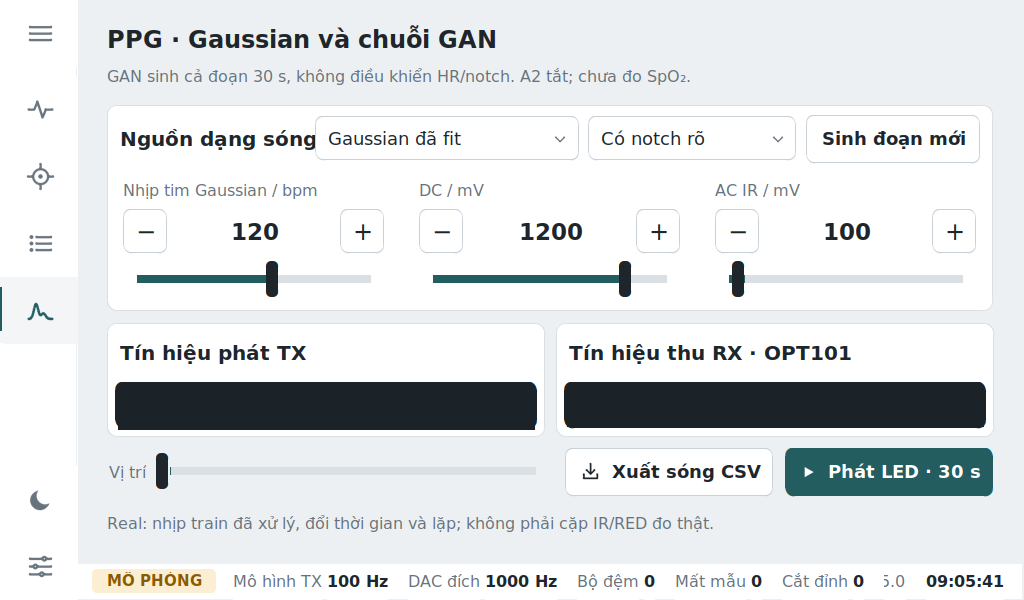
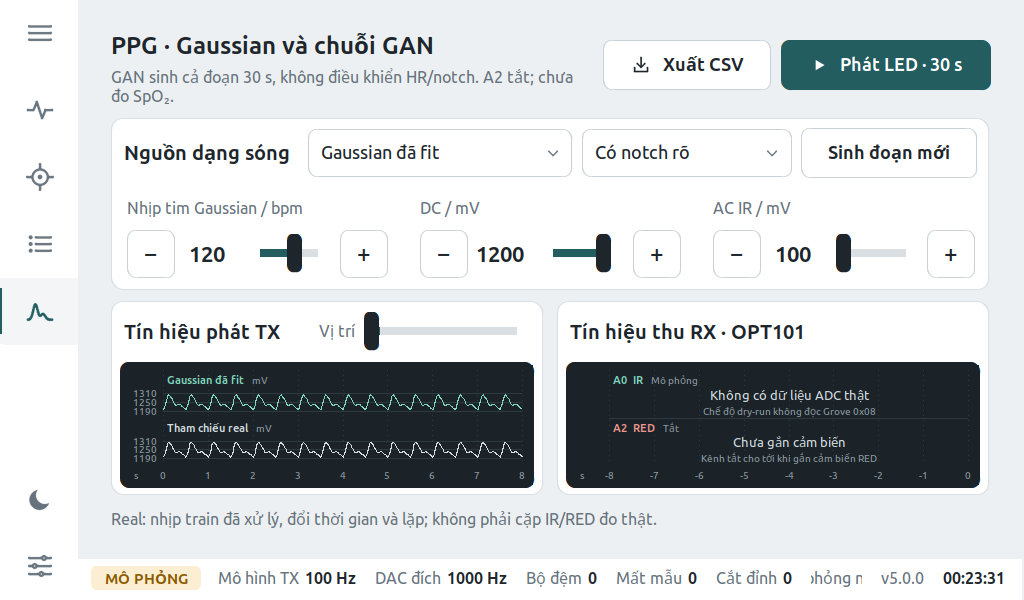
fix: Neural page fits the 1024x600 panel with taller TX/RX plots
On a desktop-scaled window shrunk to 1024x600 the TX/RX plot cards collapsed
to ~45 px. On the Pi panel profile (compact, 0.75 scaling) the page sat in a
scroll host and fit, but with TX lanes of 98 px each and RX 196 px.

- Play/Export move to the page header and the seek slider into the TX card
  header (as on the other pages); the bottom bar is gone.
- Sliders use an inline TouchSlider row (- value slider +).
- Generated and reference TX lanes share one LaneView and time axis; during
  playback the reference lane follows the clip time.
- Every page now uses one non-scrolling host, so the plots stretch.

Pi profile emulated on the laptop: TX and RX plots 313 px, page fits without
scrolling. Desktop window at 1024x600: 120 px. New test emulates the panel and
failed on the old layout. pytest 821 passed, 10 skipped; neural and PhysioMix
UI smoke tests PASS (DRY RUN). Not run on the Pi display itself.

diff --git a/ui/frames/neural_frame.py b/ui/frames/neural_frame.py
@@ -21,14 +21,14 @@ from ui import theme as T
 from ui.rx_monitor import RXPanel
 from ui.select_button import SelectButton
 from ui.touch_slider import TouchSlider
-from ui.trace_view import TraceView
+from ui.trace_view import Lane, LaneView
 
 COPY = {
     'vi': dict(title='PPG · Gaussian và chuỗi GAN', generate='Sinh đoạn mới',
                hr='Nhịp tim Gaussian / bpm', dc='DC / mV', ac='AC IR / mV',
                fitted='Gaussian đã fit', lsm='LSM-GAN · thăm dò',
                with_notch='Có notch rõ', no_notch='Không có notch rõ',
-               play='Phát LED · 30 s', source='Nguồn dạng sóng', seek='Vị trí', stop='Dừng đầu ra', export='Xuất sóng CSV',
+               play='Phát LED · 30 s', source='Nguồn dạng sóng', seek='Vị trí', stop='Dừng đầu ra', export='Xuất CSV',
                real='Tham chiếu real', tx='Tín hiệu phát TX', rx='Tín hiệu thu RX · OPT101',
                info='GAN sinh cả đoạn 30 s, không điều khiển HR/notch. A2 tắt; chưa đo SpO₂.',
                ready='Chưa phát · chọn nguồn, kéo slider rồi nhấn Phát LED.',
@@ -49,7 +49,7 @@ COPY = {
                hr='Gaussian heart rate / bpm', dc='DC / mV', ac='IR AC / mV',
                fitted='Fitted Gaussian', lsm='LSM-GAN · exploratory',
                with_notch='Visible notch', no_notch='No visible notch',
-               play='Play LED · 30 s', source='Waveform source', seek='Position', stop='Stop output', export='Export waveform CSV',
+               play='Play LED · 30 s', source='Waveform source', seek='Position', stop='Stop output', export='Export CSV',
                real='Real reference', tx='TX output signal', rx='RX received signal · OPT101',
                info='GAN generates a whole 30 s strip; no HR/notch control. A2 off; no measured SpO₂.',
                ready='Idle · choose source, adjust sliders, then press Play LED.',
@@ -87,7 +87,7 @@ class NeuralFrame(ctk.CTkFrame):
         u = T.ui
         self.grid_columnconfigure(0, weight=1)
         self.grid_rowconfigure(3, weight=1)
-        self.title_label, self.info, _actions = K.page_header(self)
+        self.title_label, self.info, actions = K.page_header(self)
 
         source, self.source_title, tools = K.section(self, span=3)
         source.grid(row=1, column=0, sticky='ew', pady=(0, u(8)))
@@ -104,7 +104,7 @@ class NeuralFrame(ctk.CTkFrame):
             label=T.label(source,'',u(12),text_color=T.MUTED,anchor='w')
             label.grid(row=1,column=col,sticky='ew',padx=u(12))
             self.control_labels[key]=label
-            control=TouchSlider(source,lo,hi,step,value=value,
+            control=TouchSlider(source,lo,hi,step,value=value,inline=True,
                                 command=lambda _value,k=key:self.adjust(k))
             control.grid(row=2,column=col,sticky='ew',padx=u(12),pady=(0,u(10)))
             setattr(self,key+'_slider',control)
@@ -115,34 +115,33 @@ class NeuralFrame(ctk.CTkFrame):
         plots.grid_rowconfigure(0,weight=1)
         # TX on the left (generated lane over its reference lane), RX on the
         # right: the same split as the Classic and Calibration pages.
-        tx, self.left_label, _ = K.section(plots)
+        tx, self.left_label, tx_tools = K.section(plots)
         tx.grid(row=0,column=0,sticky='nsew',padx=(0,u(4)))
-        holder=K.plot_holder(tx)
-        self.trace=TraceView(holder,height=96)
-        self.trace.pack(fill='both',expand=True,padx=u(3),pady=(u(3),0))
-        self.reference_trace=TraceView(holder,height=96)
-        self.reference_trace.pack(fill='both',expand=True,padx=u(3),pady=(0,u(3)))
-        rx, self.rx_title, _ = K.section(plots)
-        rx.grid(row=0,column=1,sticky='nsew',padx=(u(4),0))
-        self.rx_panel=RXPanel(K.plot_holder(rx),language=self.language,height=196)
-        self.rx_panel.pack(fill='both',expand=True,padx=u(3),pady=u(3))
-
-        bottom=ctk.CTkFrame(self,fg_color='transparent')
-        bottom.grid(row=4,column=0,sticky='ew',pady=(u(8),0))
-        bottom.grid_columnconfigure(1,weight=1)
-        self.seek_label=T.label(bottom,'',u(12),text_color=T.MUTED)
-        self.seek_label.grid(row=0,column=0,padx=(u(2),u(8)))
-        self.seek=ctk.CTkSlider(bottom,from_=0,to=22,height=u(28),border_width=u(11),button_length=u(2),
+        # Seek lives in the TX card header and Play/Export in the page header, as on the other pages:
+        # a separate bottom bar left the 1024x600 panel no height for the plots.
+        self.seek_label=T.label(tx_tools,'',u(12),text_color=T.MUTED)
+        self.seek_label.pack(side='left',padx=(0,u(6)))
+        self.seek=ctk.CTkSlider(tx_tools,from_=0,to=22,width=u(120),height=u(28),border_width=u(11),button_length=u(2),
                                 corner_radius=u(3),button_corner_radius=u(4),progress_color=T.ACCENT,
                                 button_color=T.INK,button_hover_color=T.ACCENT,command=lambda _:self.render())
         self.seek.set(0)
-        self.seek.grid(row=0,column=1,sticky='ew',padx=(0,u(10)))
-        self.export_btn=K.secondary_button(bottom,command=self.export,width=150,icon='save')
-        self.export_btn.grid(row=0,column=2,padx=(0,u(8)))
-        self.play_btn=K.primary_button(bottom,command=self.toggle_output,width=150)
-        self.play_btn.grid(row=0,column=3)
-        self.status=T.label(self,'',u(12),text_color=T.MUTED,anchor='w',justify='left',wraplength=u(900))
-        self.status.grid(row=5,column=0,sticky='ew',pady=(u(6),0))
+        self.seek.pack(side='left')
+        holder=K.plot_holder(tx)
+        # One view, two lanes (generated over real reference) on one time axis, like the RX panel:
+        # two separate views each needed their own axis and minimum height.
+        self.trace=LaneView(holder,height=120)
+        self.trace.pack(fill='both',expand=True,padx=u(3),pady=u(3))
+        rx, self.rx_title, _ = K.section(plots)
+        rx.grid(row=0,column=1,sticky='nsew',padx=(u(4),0))
+        self.rx_panel=RXPanel(K.plot_holder(rx),language=self.language,height=120)
+        self.rx_panel.pack(fill='both',expand=True,padx=u(3),pady=u(3))
+
+        self.export_btn=K.secondary_button(actions,command=self.export,width=120,icon='save')
+        self.export_btn.pack(side='left',padx=(0,u(8)))
+        self.play_btn=K.primary_button(actions,command=self.toggle_output,width=150)
+        self.play_btn.pack(side='left')
+        self.status=T.label(self,'',u(12),text_color=T.MUTED,anchor='w',justify='left',wraplength=u(900),height=u(20))
+        self.status.grid(row=4,column=0,sticky='ew',pady=(u(6),0))
         # Wrap at the page's real width; a fixed wraplength overflows narrower windows.
         self._status_wrap=None
         self.bind('<Configure>',self._fit_status,add='+')
@@ -152,10 +151,14 @@ class NeuralFrame(ctk.CTkFrame):
     def _fit_status(self,_event=None):
         # CTkFrame delivers <Configure> from its inner canvas, so read the frame's own width.
         usable=self.winfo_width()-2*max(self.status.winfo_x(),0)
-        wrap=max(T.ui(200),round(usable/self.status._get_widget_scaling())-T.ui(8))
-        if wrap!=self._status_wrap:
-            self._status_wrap=wrap
+        scaling=self.status._get_widget_scaling()
+        wrap=max(T.ui(200),round(usable/scaling)-T.ui(8))
+        # The subtitle shares its row with Play/Export, so it wraps short of the buttons.
+        info=max(T.ui(200),round((usable-self.play_btn.master.winfo_reqwidth())/scaling)-T.ui(16))
+        if (wrap,info)!=self._status_wrap:
+            self._status_wrap=(wrap,info)
             self.status.configure(wraplength=wrap)
+            self.info.configure(wraplength=info)
 
     def set_language(self, language):
         self.language=language if language in COPY else 'en'
@@ -326,21 +329,28 @@ class NeuralFrame(ctk.CTkFrame):
             text+=t['pm_extrapolated'].format(lo=lo,hi=hi)
         return text
 
+    def _reference_rows(self):
+        ref=self.previews.get({'LSM-GAN':'Real sequence','PhysioMix':'Real PhysioMix'}.get(self.mode,'Real reference'))
+        return WaveformClip.from_preview(ref,float(self.dc_slider.get()),float(self.ac_slider.get())).samples if ref else ()
+
+    def _draw_tx(self,generated,reference):
+        """Rows (time_s, IR_V, ...): generated lane over its real reference lane, in mV."""
+        t=COPY[self.language]
+        lanes=[Lane(self._mode_label(),T.IR,'mV',[(r[0],r[1]*1000) for r in generated]),
+               Lane(t['real'],T.PLOT_TEXT,'mV',[(r[0],r[1]*1000) for r in reference])]
+        ends=[rows[-1][0] for rows in (generated,reference) if rows]
+        self.trace.update_lanes(lanes,end_s=max([self.trace.window_s]+ends) if ends else None)
+
     def render(self):
         t=COPY[self.language]
-        self.trace.channels=((1,self._mode_label(),T.IR),)
-        self.reference_trace.channels=((1,t['real'],T.PLOT_TEXT),)
         preview=self.previews.get(self.mode)
         K.set_running(self.play_btn,self.engine.is_waveform_playing,t['play'],t['stop'])
         self.play_btn.configure(state='normal' if preview is not None and not self._busy else 'disabled')
         self.export_btn.configure(state='normal' if preview is not None else 'disabled')
         if not self.engine.is_waveform_playing:
             start=self.seek.get()
-            self.trace.update_samples([s for s in self.clip().samples if start<=s[0]<=start+8] if preview else [])
-        ref=self.previews.get({'LSM-GAN':'Real sequence','PhysioMix':'Real PhysioMix'}.get(self.mode,'Real reference'))
-        start=self.seek.get()
-        rows=WaveformClip.from_preview(ref,float(self.dc_slider.get()),float(self.ac_slider.get())).samples if ref else ()
-        self.reference_trace.update_samples([s for s in rows if start<=s[0]<=start+8])
+            self._draw_tx([s for s in self.clip().samples if start<=s[0]<=start+8] if preview else [],
+                          [s for s in self._reference_rows() if start<=s[0]<=start+8])
         if preview and not self.engine.is_waveform_playing and not self._busy:
             self.status.configure(text=self._status_detail(preview),text_color=T.MUTED)
 
@@ -382,7 +392,10 @@ class NeuralFrame(ctk.CTkFrame):
             if now-self._last_live_render<.1:
                 return
             self._last_live_render=now
-            self.trace.update_samples(self.engine.get_display_history())
+            history=self.engine.get_display_history()
+            # Clip playback stamps samples in clip time, so the reference lane shows the same seconds.
+            end=history[-1][0] if history else 0
+            self._draw_tx(history,[s for s in self._reference_rows() if end-self.trace.window_s<=s[0]<=end])
             rx_status=self.rx.channel_status(0)
             if self.rx.is_simulated: rx_status='dry-run'
             elif rx_status in ('ok','saturated') and self.rx.is_stale(0): rx_status+=' / stale'

diff --git a/ui/ctk_app.py b/ui/ctk_app.py
@@ -39,7 +39,6 @@ class CTkApp(ctk.CTk):
         self.engine = SignalEngine.get_instance()
         self._closing = False
         self._shutdown_requested = False
-        compact = self.layout.compact
         u = self.layout.ui
         header_pad = u(14)
         # ── Navigation rail (overlays the page when expanded) ──
@@ -61,31 +60,21 @@ class CTkApp(ctk.CTk):
         self.bind("<Button-1>", self.rail.click_outside, add="+")
 
         # ── Page area ──
-        # Compact panels scroll long pages while the rail and footer
-        # stay fixed. The Classic page is laid out to fit 1024x600 without
-        # scrolling, so it lives in a plain host that stretches its plots.
-        self.page_host = ctk.CTkScrollableFrame(self, fg_color="transparent") if compact else ctk.CTkFrame(self, fg_color="transparent")
+        # Every page is laid out to fit 1024x600 without scrolling, so one
+        # plain host stretches their plots to the window height.
+        self.page_host = ctk.CTkFrame(self, fg_color="transparent")
         self.page_host.grid(row=0, column=1, sticky="nsew")
         self.page_host.grid_columnconfigure(0, weight=1)
-        if compact:
-            self.page_host._scrollbar.configure(width=28)
-            self.fixed_host = ctk.CTkFrame(self, fg_color="transparent")
-            self.fixed_host.grid_columnconfigure(0, weight=1)
-            self.fixed_host.grid_rowconfigure(0, weight=1)
-        else:
-            self.page_host.grid_rowconfigure(0, weight=1)
-            self.fixed_host = self.page_host
-        for host in {self.page_host, self.fixed_host}:
-            host.layout = self.layout
-            host.language = self.language
+        self.page_host.grid_rowconfigure(0, weight=1)
+        self.page_host.layout = self.layout
+        self.page_host.language = self.language
         self.frames = {
-            "Pathology": PathologyFrame(self.fixed_host, fg_color="transparent"),
-            "Calibration": CalibrationFrame(self.fixed_host, fg_color="transparent"),
-            "Playback": PlaybackFrame(self.fixed_host, fg_color="transparent"),
+            "Pathology": PathologyFrame(self.page_host, fg_color="transparent"),
+            "Calibration": CalibrationFrame(self.page_host, fg_color="transparent"),
+            "Playback": PlaybackFrame(self.page_host, fg_color="transparent"),
             "Neural": NeuralFrame(self.page_host, fg_color="transparent"),
         }
-        for host in {self.page_host, self.fixed_host}:
-            host.frames = self.frames
+        self.page_host.frames = self.frames
         self.signal_setup_window = None
         self.signal_setup_panel = None
         # ── Footer: output health and build ──
@@ -135,16 +124,6 @@ class CTkApp(ctk.CTk):
         self.active_frame = self.frames[name]
         self.active_frame.grid(row=0, column=0, sticky="nsew",
                                padx=self.layout.outer_pad, pady=self.layout.outer_pady)
-        host = self.active_frame.master
-        if host is not self.page_host:
-            self.page_host.grid_remove()
-            host.grid(row=0, column=1, sticky="nsew")
-        else:
-            if self.fixed_host is not self.page_host:
-                self.fixed_host.grid_remove()
-            self.page_host.grid()
-        if self.layout.compact and host is self.page_host:
-            self.page_host._parent_canvas.yview_moveto(0)
         self.rail.select(name)
         self.rail.lift()
         if hasattr(self.active_frame, "on_show"):
@@ -216,8 +195,7 @@ class CTkApp(ctk.CTk):
             return
         self.language = language
         self.title(text(language, "title"))
-        for host in {self.page_host, self.fixed_host}:
-            host.language = language
+        self.page_host.language = language
         for key, text_key, _icon in self.nav_keys:
             self.nav_buttons[key].set_label(text(language, text_key))
         self.signal_setup_bubble.set_label(text(language, "settings_short"))

diff --git a/ui/touch_slider.py b/ui/touch_slider.py
@@ -6,29 +6,34 @@ from ui import theme as T
 
 class TouchSlider(ctk.CTkFrame):
     def __init__(self, master, minimum, maximum, step=1, value=None,
-                 optional=False, command=None, width=230, **kwargs):
+                 optional=False, command=None, width=230, inline=False, **kwargs):
         super().__init__(master, fg_color="transparent", width=width, **kwargs)
         self.minimum, self.maximum, self.step = minimum, maximum, step
         self.command, self.optional = command, optional
         self._value = minimum if value is None else value
         self._auto = optional and value is None
         self._disabled = False
-        self.grid_columnconfigure(1, weight=1)
         # Same control language as the Classic setpoint cards: outlined −/+,
         # a bold readout and a 28 px touch strip that draws a 6 px track.
+        # inline puts all four on one row for pages short of height.
         u = T.ui
         button = dict(width=u(34), height=u(34), font=T.font(u(17)))
         self.minus = T.outline_button(self, "−", command=lambda: self._move(-1), **button)
         self.minus.grid(row=0, column=0)
-        self.readout = T.label(self, "", u(16), True)
+        self.readout = T.label(self, "", u(16), True, width=u(46) if inline else 0)
         self.readout.grid(row=0, column=1, sticky="ew")
         self.plus = T.outline_button(self, "+", command=lambda: self._move(1), **button)
-        self.plus.grid(row=0, column=2)
+        self.plus.grid(row=0, column=3 if inline else 2)
         self.slider = ctk.CTkSlider(self, from_=minimum, to=maximum, height=u(28), border_width=u(11),
                                    button_length=u(2), corner_radius=u(3), button_corner_radius=u(4),
                                    progress_color=T.ACCENT, button_color=T.INK,
-                                   button_hover_color=T.ACCENT, command=self._slide)
-        self.slider.grid(row=1, column=0, columnspan=3, sticky="ew", pady=(u(4), 0))
+                                   button_hover_color=T.ACCENT, command=self._slide, width=u(60) if inline else 200)
+        if inline:
+            self.grid_columnconfigure(2, weight=1)
+            self.slider.grid(row=0, column=2, sticky="ew", padx=u(4))
+        else:
+            self.grid_columnconfigure(1, weight=1)
+            self.slider.grid(row=1, column=0, columnspan=3, sticky="ew", pady=(u(4), 0))
         if optional:
             self.auto_var = ctk.BooleanVar(value=self._auto)
             self.auto = ctk.CTkCheckBox(self, text="Auto", variable=self.auto_var, font=T.font(u(12)),

diff --git a/tests/test_classic_ui.py b/tests/test_classic_ui.py
@@ -193,3 +193,43 @@ class TestRailAndTheme(unittest.TestCase):
             self.assertEqual(app.frames["Pathology"].trace.cget("bg"), T.DARK[0])
         finally:
             app.on_closing()
+
+
+@unittest.skipUnless(HAS_DISPLAY, "needs a display server to create a Tk window")
+class TestTouchPanelPages(unittest.TestCase):
+    def test_every_page_fits_the_1024x600_panel_with_readable_plots(self):
+        """Emulates the Pi panel (compact profile, 0.75 scaling); resizing a desktop window does not."""
+        import time
+        from unittest import mock
+        from ui.ctk_app import CTkApp
+        with mock.patch.object(CTkApp, "winfo_screenwidth", lambda self: 1024), \
+                mock.patch.object(CTkApp, "winfo_screenheight", lambda self: 600), \
+                mock.patch.object(CTkApp, "_maximize_to_work_area", lambda self: None):
+            app = CTkApp(language="vi")
+        app._save_language = lambda: None
+        try:
+            self.assertTrue(app.layout.compact)
+            app.geometry("1024x600+0+0")
+
+            def pump(seconds):
+                end = time.monotonic() + seconds
+                while time.monotonic() < end:
+                    app.update()
+                    time.sleep(.01)
+            for name in ("Pathology", "Calibration", "Playback", "Neural"):
+                app._show_frame(name)
+                pump(.4)
+                page = app.frames[name]
+                bottom = app.winfo_rooty() + app.winfo_height()
+                self.assertLessEqual(page.winfo_reqheight(), page.master.winfo_height(), name)
+                self.assertGreaterEqual(page.rx_panel.winfo_height(), 150, name)
+                self.assertLessEqual(page.rx_panel.winfo_rooty() + page.rx_panel.winfo_height(), bottom, name)
+            neural = app.frames["Neural"]
+            self.assertGreaterEqual(neural.trace.winfo_height(), 150)
+            for widget in (neural.play_btn, neural.export_btn, neural.seek, neural.status):
+                self.assertLessEqual(widget.winfo_rooty() + widget.winfo_height(), bottom)
+            # Generated and reference lanes share the TX view and both draw.
+            self.assertEqual(len(neural.trace.lanes), 2)
+            self.assertTrue(all(lane.points for lane in neural.trace.lanes))
+        finally:
+            app.on_closing()

diff --git a/scripts/smoke_neural_ui.py b/scripts/smoke_neural_ui.py
@@ -54,6 +54,8 @@ def main():
         for widget in (panel.play_btn,panel.export_btn,panel.status,panel.trace,panel.rx_panel):
             assert widget.winfo_rootx()+widget.winfo_width()<=app.winfo_rootx()+app.winfo_width()
             assert widget.winfo_rooty()+widget.winfo_height()<=app.winfo_rooty()+app.winfo_height()
+        # Desktop scaling in a 1024x600 window (the Pi panel itself is covered by tests/test_classic_ui.py).
+        assert panel.trace.winfo_height()>=100 and panel.rx_panel.winfo_height()>=100
         capture('gaussian-vi-1024.png')
         panel.play_btn.invoke();pump(.3)
         assert engine.is_waveform_playing
